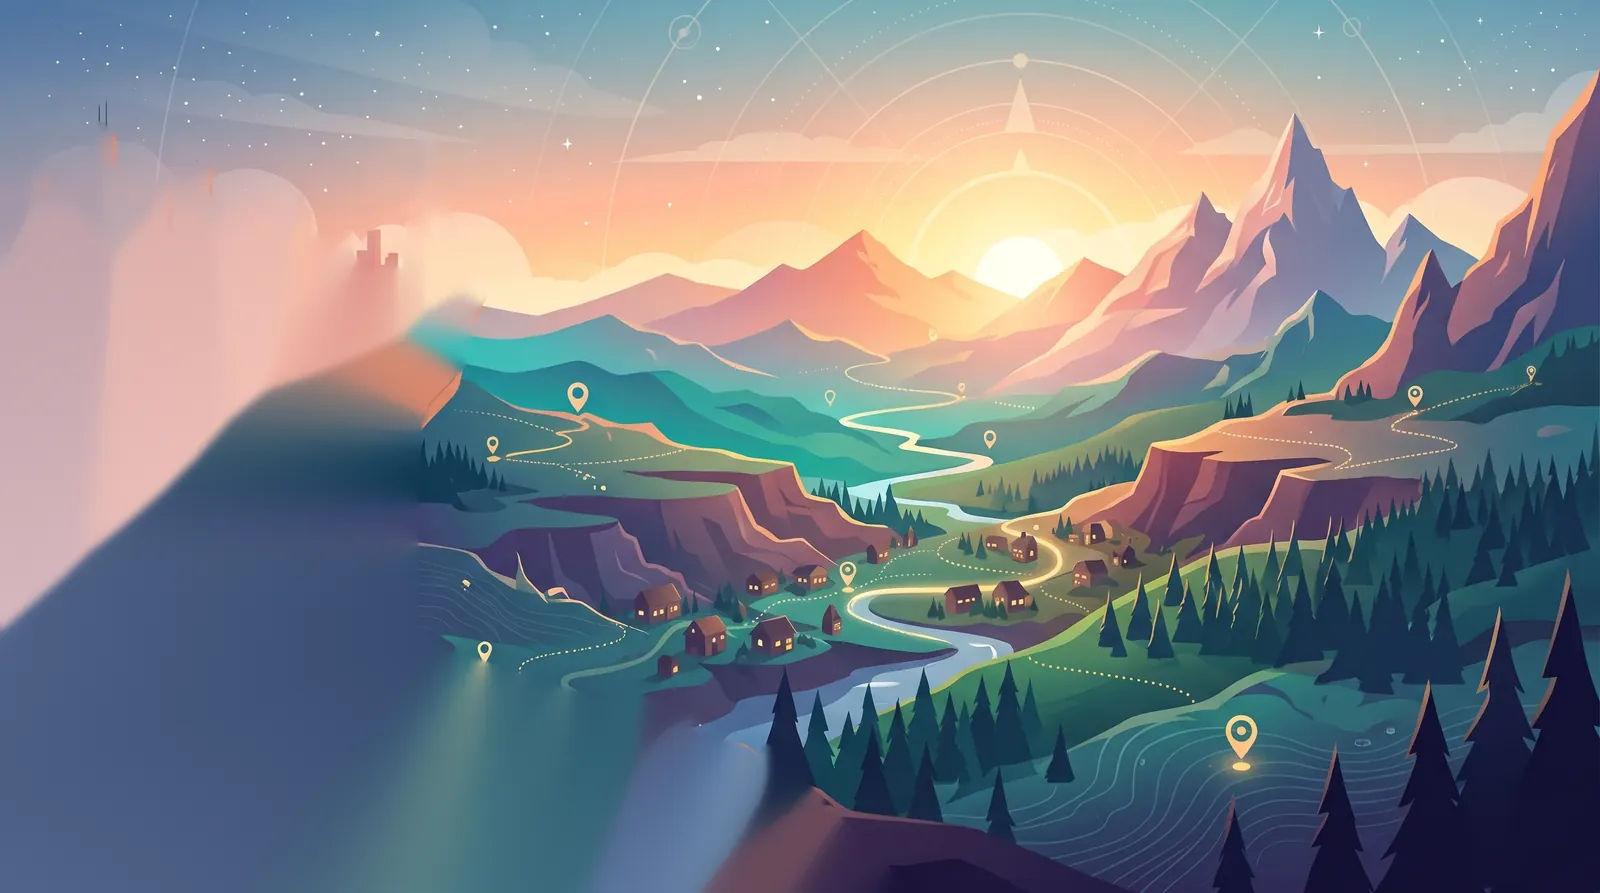
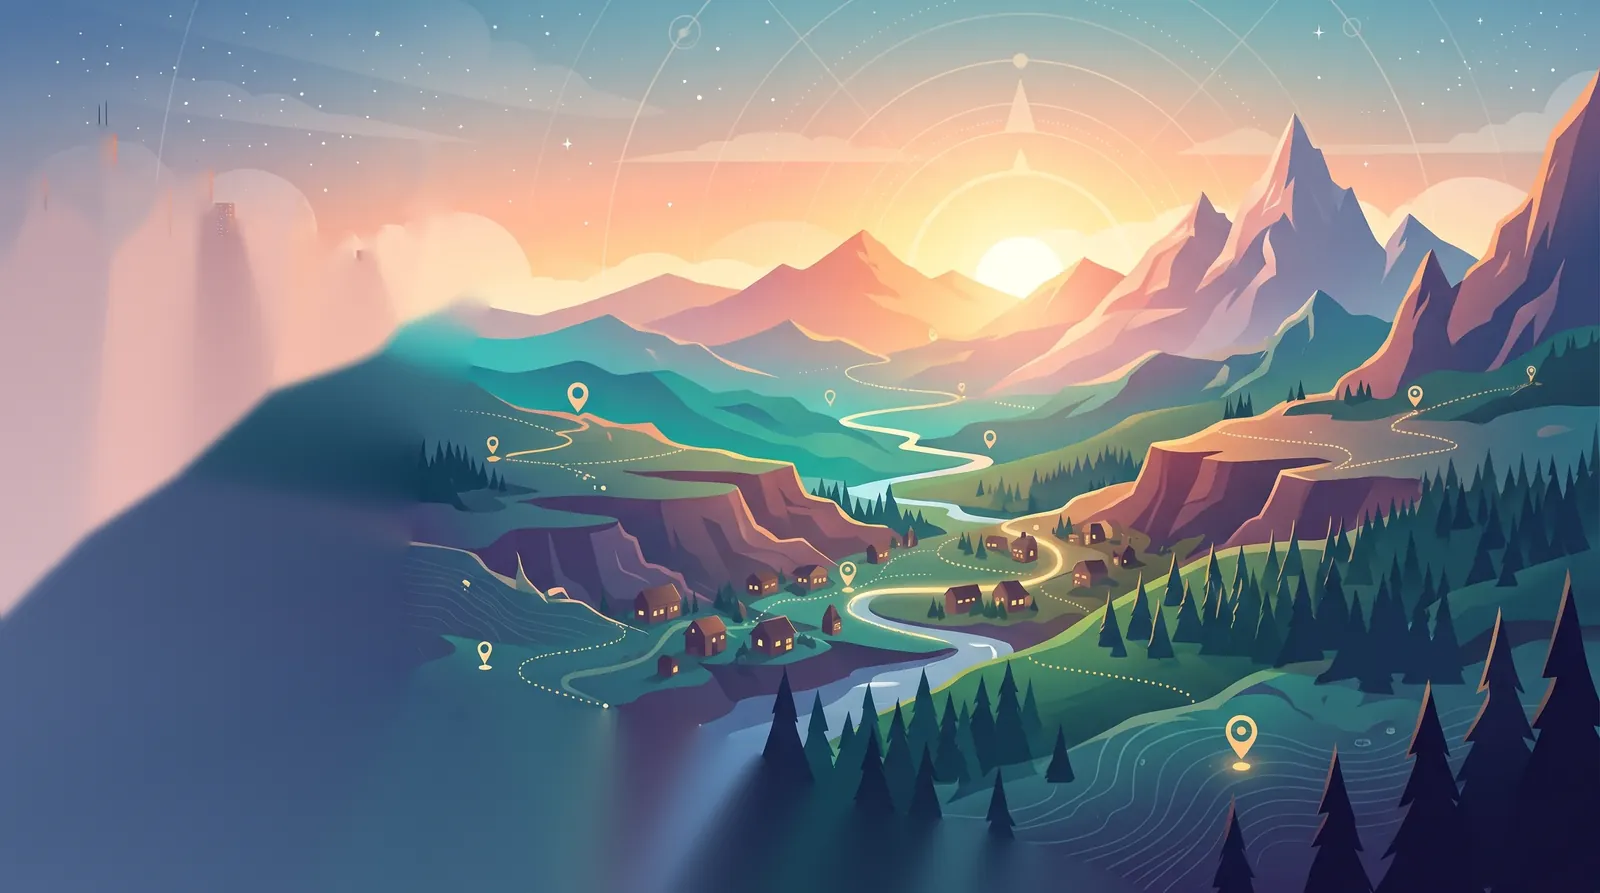
Refine the landing cliff cut
The cut now follows the outside of the cliff's light rim down to its
foot and then the top of the ridge with the glowing trail, so the river,
valley and houses stay in the back layer and no straight seam shows when
the layers slide apart. The two towers between the bike and the hiker
are part of the front layer. Service worker cache bumped to v31.

Claude-Session: https://claude.ai/code/session_013teZ6PknzJCGKQiU9XAzWw

diff --git a/sw.js b/sw.js
@@ -1,7 +1,7 @@
 // Offline support for BT;DT. The page and its libraries are cached so the
 // app opens without a connection; map tiles are cached as you look at them.
 // Timeline files are never fetched or cached here: they are read straight from the device.
-var VERSION = 'btdt-v30';
+var VERSION = 'btdt-v31';
 var SHELL = ['./', './index.html', './manifest.webmanifest', './icon-192.png', './icon-512.png', './favicon.ico', './landing-1600.webp', './landing-bg-1600.webp', './landing-bg-2752.webp', './landing-fg-1600.webp', './landing-fg-2752.webp'];
 var LIBS = [
   'https://cdnjs.cloudflare.com/ajax/libs/leaflet/1.9.4/leaflet.min.js',

diff --git a/source/landing/make_layers.py b/source/landing/make_layers.py
@@ -10,9 +10,9 @@
 On wide screens the two line up exactly as the original picture. On narrower ones the
 page slides the background further left than the cliff, so the hiker and the sun both fit.
 
-The cliff is found as the dark shape inside a hand-drawn zone (the zone keeps the dark
-valley trees at the foot of the cliff face out), and the city is separated from the sky
-with GrabCut. The fill behind the cliff is a plain inpaint: only its edges ever show.
+The cliff top is found as the dark shape inside a hand-drawn zone and the city is
+separated from the sky with GrabCut. Below the cliff top, the cut follows EDGE, traced by
+hand along the outside of the cliff's light rim and the ridge with the glowing trail. The fill behind the cliff is a plain inpaint: only its edges ever show.
 """
 import os
 import numpy as np
@@ -32,6 +32,17 @@ ZONE = [(0, 415), (170, 415), (170, 470), (410, 470), (410, 385), (650, 385), (6
 CORE = [(0, 600), (500, 580), (700, 520), (780, 560), (720, 700), (690, 1100), (1000, 1200), (1250, 1300), (1450, 1536), (0, 1536)]
 DARK = 72        # luminance below which a pixel in the zone is cliff
 CITY = (0, 120, 760, 600)  # box the skyline is in
+# The cliff's right edge, traced along the outside of its light rim: down the rock face to its
+# foot, then along the top of the dark ridge with the glowing trail to the bottom of the picture.
+# Everything left of this line and below the cliff top is in front; the valley right of it stays behind.
+EDGE = [(852, 470), (832, 530), (813, 580), (803, 620), (793, 660), (773, 690), (743, 720), (717, 750),
+        (707, 800), (714, 830), (714, 890), (692, 940), (672, 975), (682, 1040), (679, 1100), (671, 1180),
+        (700, 1185), (800, 1256), (920, 1218), (1100, 1232), (1180, 1250), (1250, 1275), (1290, 1295),
+        (1335, 1335), (1400, 1355), (1440, 1380), (1470, 1395), (1600, 1412), (1700, 1439), (1800, 1469),
+        (1900, 1504), (1962, 1536)]
+TOP = 478  # below this line everything left of EDGE is cliff, bike, trees or city
+# Two small towers of the skyline that peek out between the bike and the hiker.
+TOWERS = [[(628, 396), (656, 396), (656, 470), (628, 470)], [(661, 434), (686, 434), (686, 470), (661, 470)]]
 
 
 def poly_mask(size, pts):
@@ -53,6 +64,7 @@ def cliff_mask(im):
 
 def add_city(im, cliff):
     x0, y0, x1, y1 = CITY
+    h, w = im.shape[:2]
     crop = cv2.cvtColor(np.ascontiguousarray(im[y0:y1, x0:x1]), cv2.COLOR_RGB2BGR)
     yy, xx = np.mgrid[y0:y1, x0:x1]
     c = cliff[y0:y1, x0:x1]
@@ -62,9 +74,17 @@ def add_city(im, cliff):
     m[(xx > 705) & ~c & (yy < 440)] = cv2.GC_BGD  # sky right of the hiker
     m[(xx < 560) & (yy > 445)] = cv2.GC_FGD       # the city's base
     m[c] = cv2.GC_FGD
+    for t in TOWERS:
+        m[poly_mask((w, h), t)[y0:y1, x0:x1]] = cv2.GC_FGD
     cv2.grabCut(crop, m, None, np.zeros((1, 65)), np.zeros((1, 65)), 8, cv2.GC_INIT_WITH_MASK)
     out = cliff.copy()
     out[y0:y1, x0:x1] |= np.isin(m, [cv2.GC_FGD, cv2.GC_PR_FGD])
+    # Between the bike and the hiker the sunlit cloud is as bright as the towers, so take the towers as drawn.
+    gap = np.zeros_like(out); gap[380:470, 600:700] = True
+    towers = np.zeros_like(out)
+    for t in TOWERS:
+        towers |= poly_mask((w, h), t)
+    out = np.where(gap, cliff | towers, out)
     out = cv2.morphologyEx(out.astype(np.uint8), cv2.MORPH_OPEN, np.ones((3, 3), np.uint8)) > 0
     lab, n = ndimage.label(out)
     out = lab == 1 + int(np.argmax(ndimage.sum(out, lab, range(1, n + 1))))  # drop stray stars
@@ -75,6 +95,9 @@ def main():
     im = np.array(Image.open(SRC).convert('RGB'))
     h, w = im.shape[:2]
     shape = add_city(im, cliff_mask(im))
+    left = poly_mask((w, h), [(0, 0), (870, 0), (870, 440)] + EDGE + [(0, h)])
+    yy = np.arange(h)[:, None]
+    shape = (shape & left) | (left & (yy >= TOP))
     alpha = cv2.GaussianBlur(shape.astype(np.float32) * 255, (0, 0), 1.0).astype(np.uint8)
     # Background: fill the cliff's area (grown a little, so no rim is left) from its surroundings.
     grow = cv2.dilate((alpha > 8).astype(np.uint8) * 255, np.ones((15, 15), np.uint8))
